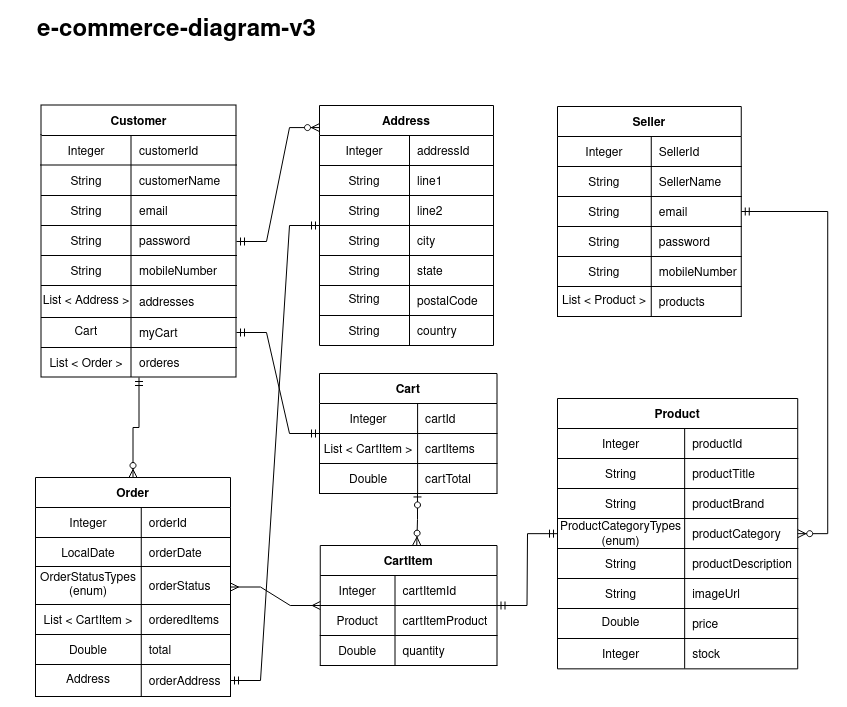
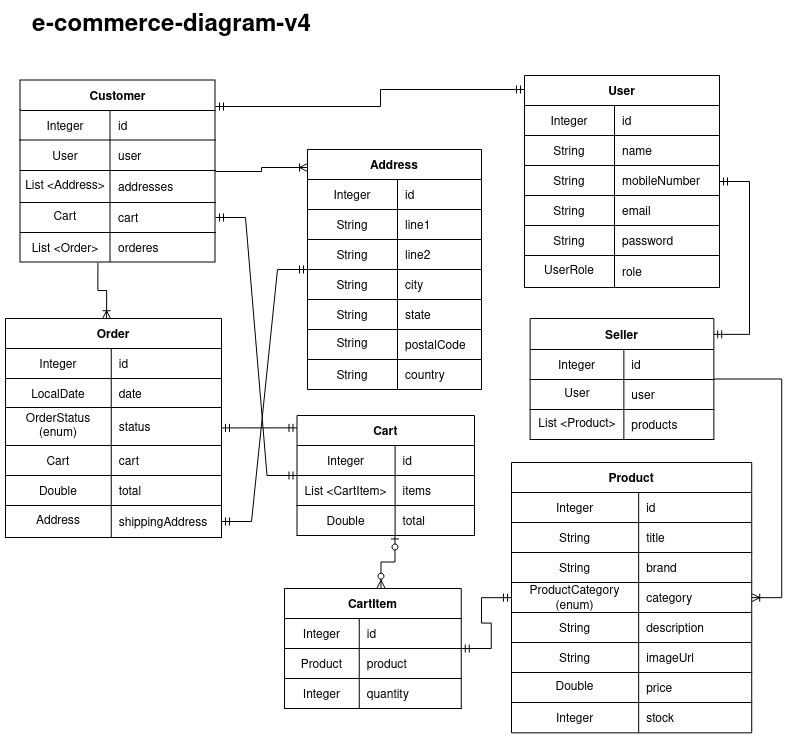
update database modeling and minor fixes

Changed region(s): [[0.0, 0.0934, 0.995, 0.9958], [0.0302, 0.0, 0.392, 0.0622], [0.6332, 0.0934, 0.6633, 0.1245]]

diff --git a/src/main/java/com/nadimnesar/ecommerce/auth/service/AuthenticationService.java b/src/main/java/com/nadimnesar/ecommerce/auth/service/AuthenticationService.java
@@ -2,7 +2,7 @@ package com.nadimnesar.ecommerce.auth.service;
 
 import com.nadimnesar.ecommerce.auth.dto.AuthResponseDto;
 import com.nadimnesar.ecommerce.auth.dto.UserDto;
-import com.nadimnesar.ecommerce.auth.enums.UserRoleTypes;
+import com.nadimnesar.ecommerce.auth.enums.UserRole;
 import com.nadimnesar.ecommerce.auth.model.User;
 import com.nadimnesar.ecommerce.auth.repository.UserRepository;
 import org.springframework.http.HttpStatus;
@@ -19,6 +19,7 @@ public class AuthenticationService {
     private final PasswordEncoder passwordEncoder;
     private final UserRepository userRepository;
     private final JwtService jwtService;
+
     public AuthenticationService(AuthenticationManager authenticationManager, PasswordEncoder passwordEncoder,
                                  UserRepository userRepository, JwtService jwtService) {
         this.authenticationManager = authenticationManager;
@@ -28,12 +29,13 @@ public class AuthenticationService {
     }
 
     public boolean invalidUserDto(UserDto userDto) {
-        return (userDto.getPassword() == null) || (userDto.getEmail() == null);
+        return (userDto.getPassword() == null) || (userDto.getEmail() == null) ||
+                (userDto.getName() == null) || (userDto.getMobileNumber() == null);
     }
 
-    public ResponseEntity<?> register(UserDto userDto, UserRoleTypes role) {
+    public ResponseEntity<?> register(UserDto userDto, UserRole role) {
         if (invalidUserDto(userDto)) return new ResponseEntity<>(
-                "Please provide both username and password.", HttpStatus.BAD_REQUEST);
+                "Please provide email, password, name, mobileNumber.", HttpStatus.BAD_REQUEST);
 
         User user = new User();
         user.setName(userDto.getName());
@@ -59,7 +61,7 @@ public class AuthenticationService {
 
     public ResponseEntity<?> login(UserDto userDto) {
         if (invalidUserDto(userDto)) return new ResponseEntity<>(
-                "Please provide both username and password.", HttpStatus.BAD_REQUEST);
+                "Please provide both email and password.", HttpStatus.BAD_REQUEST);
 
         User user = userRepository.findByEmail(userDto.getEmail());
         if (user == null) return new ResponseEntity<>("User not found.", HttpStatus.UNAUTHORIZED);

diff --git a/src/main/java/com/nadimnesar/ecommerce/auth/model/User.java b/src/main/java/com/nadimnesar/ecommerce/auth/model/User.java
@@ -1,6 +1,6 @@
 package com.nadimnesar.ecommerce.auth.model;
 
-import com.nadimnesar.ecommerce.auth.enums.UserRoleTypes;
+import com.nadimnesar.ecommerce.auth.enums.UserRole;
 import jakarta.persistence.*;
 import lombok.AllArgsConstructor;
 import lombok.Getter;
@@ -13,8 +13,8 @@ import org.springframework.security.core.userdetails.UserDetails;
 import java.util.Collection;
 import java.util.List;
 
-@Getter
 @Setter
+@Getter
 @AllArgsConstructor
 @NoArgsConstructor
 @Entity
@@ -24,6 +24,12 @@ public class User implements UserDetails {
     @GeneratedValue(strategy = GenerationType.IDENTITY)
     private Integer id;
 
+    @Column(nullable = false)
+    private String name;
+
+    @Column(nullable = false)
+    private String mobileNumber;
+
     @Column(unique = true, nullable = false)
     private String email;
 
@@ -32,14 +38,16 @@ public class User implements UserDetails {
 
     @Enumerated(EnumType.STRING)
     @Column(nullable = false)
-    private UserRoleTypes role;
-
-    private String name;
-    private String mobileNumber;
+    private UserRole role;
 
     @Override
     public Collection<? extends GrantedAuthority> getAuthorities() {
         return List.of(new SimpleGrantedAuthority(role.name()));
+    }
+
+    @Override
+    public String getPassword() {
+        return password;
     }
 
     @Override
@@ -49,21 +57,21 @@ public class User implements UserDetails {
 
     @Override
     public boolean isAccountNonExpired() {
-        return true;
+        return UserDetails.super.isAccountNonExpired();
     }
 
     @Override
     public boolean isAccountNonLocked() {
-        return true;
+        return UserDetails.super.isAccountNonLocked();
     }
 
     @Override
     public boolean isCredentialsNonExpired() {
-        return true;
+        return UserDetails.super.isCredentialsNonExpired();
     }
 
     @Override
     public boolean isEnabled() {
-        return true;
+        return UserDetails.super.isEnabled();
     }
 }

diff --git a/src/main/java/com/nadimnesar/ecommerce/service/ProductService.java b/src/main/java/com/nadimnesar/ecommerce/service/ProductService.java
@@ -1,6 +1,6 @@
 package com.nadimnesar.ecommerce.service;
 
-import com.nadimnesar.ecommerce.enums.ProductCategoryTypes;
+import com.nadimnesar.ecommerce.enums.ProductCategory;
 import com.nadimnesar.ecommerce.model.Product;
 import com.nadimnesar.ecommerce.repository.ProductRepository;
 import org.springframework.data.domain.PageRequest;
@@ -36,19 +36,19 @@ public class ProductService {
     }
 
     public Object getAllByCategoryName(String categoryName, Integer pageNo, Integer limit) {
-        ProductCategoryTypes type = ProductCategoryTypes.getCorrectType(categoryName);
+        ProductCategory type = ProductCategory.getCorrectType(categoryName);
         if (type == null) {
             HashMap<String, String> error = new HashMap<>();
             error.put("message", "Invalid product category");
-            error.put("validCategories", String.join(", ", ProductCategoryTypes.getValidCategories()));
+            error.put("validCategories", String.join(", ", ProductCategory.getValidCategories()));
             return new ResponseEntity<>(error, HttpStatus.NOT_FOUND);
         }
 
         if (pageNo != null && limit != null) {
             Pageable pageable = PageRequest.of(pageNo, limit);
-            return productRepository.findByProductCategory(type, pageable);
+            return productRepository.findByCategory(type, pageable);
         } else {
-            return productRepository.findByProductCategory(type);
+            return productRepository.findByCategory(type);
         }
     }
 }

diff --git a/src/main/java/com/nadimnesar/ecommerce/model/Product.java b/src/main/java/com/nadimnesar/ecommerce/model/Product.java
@@ -1,6 +1,6 @@
 package com.nadimnesar.ecommerce.model;
 
-import com.nadimnesar.ecommerce.enums.ProductCategoryTypes;
+import com.nadimnesar.ecommerce.enums.ProductCategory;
 import jakarta.persistence.*;
 import lombok.AllArgsConstructor;
 import lombok.Getter;
@@ -15,22 +15,27 @@ import lombok.Setter;
 public class Product {
     @Id
     @GeneratedValue(strategy = GenerationType.IDENTITY)
-    private Integer productId;
+    private Integer id;
 
     @Column(nullable = false)
-    private String productTitle;
+    private String title;
+
+    @Column(nullable = false)
+    private String brand;
 
     @Column(nullable = false)
     @Enumerated(EnumType.STRING)
-    private ProductCategoryTypes productCategory;
+    private ProductCategory category;
+
+    @Column(nullable = false)
+    private String description;
+
+    @Column(nullable = false)
+    private String imageUrl;
 
     @Column(nullable = false)
     private Double price;
 
     @Column(nullable = false)
     private Integer stock;
-
-    private String productBrand;
-    private String productDescription;
-    private String imageUrl;
 }

diff --git a/src/main/java/com/nadimnesar/ecommerce/auth/controller/AuthController.java b/src/main/java/com/nadimnesar/ecommerce/auth/controller/AuthController.java
@@ -1,7 +1,7 @@
 package com.nadimnesar.ecommerce.auth.controller;
 
 import com.nadimnesar.ecommerce.auth.dto.UserDto;
-import com.nadimnesar.ecommerce.auth.enums.UserRoleTypes;
+import com.nadimnesar.ecommerce.auth.enums.UserRole;
 import com.nadimnesar.ecommerce.auth.service.AuthenticationService;
 import org.springframework.http.ResponseEntity;
 import org.springframework.web.bind.annotation.*;
@@ -18,12 +18,12 @@ public class AuthController {
 
     @PostMapping("/register")
     public ResponseEntity<?> postRegistration(@RequestBody UserDto userDto) {
-        return authenticationService.register(userDto, UserRoleTypes.CUSTOMER);
+        return authenticationService.register(userDto, UserRole.CUSTOMER);
     }
 
     @PostMapping("/seller/register")
     public ResponseEntity<?> postSellerRegistration(@RequestBody UserDto userDto) {
-        return authenticationService.register(userDto, UserRoleTypes.SELLER);
+        return authenticationService.register(userDto, UserRole.SELLER);
     }
 
     @GetMapping("/login")

diff --git a/src/main/java/com/nadimnesar/ecommerce/model/Order.java b/src/main/java/com/nadimnesar/ecommerce/model/Order.java
@@ -1,6 +1,6 @@
 package com.nadimnesar.ecommerce.model;
 
-import com.nadimnesar.ecommerce.enums.OrderStatusTypes;
+import com.nadimnesar.ecommerce.enums.OrderStatus;
 import jakarta.persistence.*;
 import lombok.AllArgsConstructor;
 import lombok.Getter;
@@ -8,7 +8,6 @@ import lombok.NoArgsConstructor;
 import lombok.Setter;
 
 import java.time.LocalDate;
-import java.util.List;
 
 @Getter
 @Setter
@@ -21,15 +20,15 @@ public class Order {
     @GeneratedValue(strategy = GenerationType.IDENTITY)
     private Integer id;
 
-    private LocalDate orderDate;
+    private LocalDate date;
 
     @Enumerated(EnumType.STRING)
-    private OrderStatusTypes orderStatus;
+    private OrderStatus status;
 
-    @OneToMany(cascade = CascadeType.ALL, fetch = FetchType.LAZY)
-    private List<CartItem> cartItems;
+    @OneToOne
+    private Cart cart;
 
-    private Double totalPrice;
+    private Double total;
 
     @OneToOne
     private Address shippingAddress;

diff --git a/src/main/java/com/nadimnesar/ecommerce/repository/ProductRepository.java b/src/main/java/com/nadimnesar/ecommerce/repository/ProductRepository.java
@@ -1,6 +1,6 @@
 package com.nadimnesar.ecommerce.repository;
 
-import com.nadimnesar.ecommerce.enums.ProductCategoryTypes;
+import com.nadimnesar.ecommerce.enums.ProductCategory;
 import com.nadimnesar.ecommerce.model.Product;
 import org.springframework.data.domain.Page;
 import org.springframework.data.domain.Pageable;
@@ -11,6 +11,6 @@ import java.util.List;
 
 @Repository
 public interface ProductRepository extends JpaRepository<Product, Integer> {
-    List<Product> findByProductCategory(ProductCategoryTypes productCategory);
-    Page<Product> findByProductCategory(ProductCategoryTypes productCategory, Pageable pageable);
+    List<Product> findByCategory(ProductCategory productCategory);
+    Page<Product> findByCategory(ProductCategory productCategory, Pageable pageable);
 }

diff --git a/src/main/java/com/nadimnesar/ecommerce/model/Customer.java b/src/main/java/com/nadimnesar/ecommerce/model/Customer.java
@@ -19,15 +19,15 @@ public class Customer {
     @GeneratedValue(strategy = GenerationType.IDENTITY)
     private Integer id;
 
-    @OneToOne(cascade = CascadeType.ALL, fetch = FetchType.LAZY)
-    private User customerUser;
+    @OneToOne
+    private User user;
 
-    @OneToMany(cascade = CascadeType.ALL, fetch = FetchType.LAZY)
+    @OneToMany
     private List<Address> addresses;
 
-    @OneToOne(cascade = CascadeType.ALL, fetch = FetchType.LAZY)
-    private Cart myCart;
+    @OneToOne
+    private Cart cart;
 
-    @OneToMany(cascade = CascadeType.ALL, fetch = FetchType.LAZY)
+    @OneToMany
     List<Order> orders;
 }

diff --git a/src/main/java/com/nadimnesar/ecommerce/enums/ProductCategory.java b/src/main/java/com/nadimnesar/ecommerce/enums/ProductCategory.java
@@ -4,11 +4,11 @@ import java.util.Arrays;
 import java.util.List;
 import java.util.stream.Collectors;
 
-public enum ProductCategoryTypes {
+public enum ProductCategory {
     Fashion, Lifestyle, Health, Electronics, Groceries, Sports;
 
-    public static ProductCategoryTypes getCorrectType(String category) {
-        for (ProductCategoryTypes type : values()) {
+    public static ProductCategory getCorrectType(String category) {
+        for (ProductCategory type : values()) {
             if (type.name().equalsIgnoreCase(category)) {
                 return type;
             }

diff --git a/src/main/java/com/nadimnesar/ecommerce/dto/ProductDto.java b/src/main/java/com/nadimnesar/ecommerce/dto/ProductDto.java
@@ -1,6 +1,6 @@
 package com.nadimnesar.ecommerce.dto;
 
-import com.nadimnesar.ecommerce.enums.ProductCategoryTypes;
+import com.nadimnesar.ecommerce.enums.ProductCategory;
 import lombok.AllArgsConstructor;
 import lombok.Getter;
 import lombok.NoArgsConstructor;
@@ -12,7 +12,7 @@ import lombok.Setter;
 @AllArgsConstructor
 public class ProductDto {
     private String productTitle;
-    private ProductCategoryTypes productCategory;
+    private ProductCategory productCategory;
     private Double price;
     private Integer stock;
 

diff --git a/src/main/java/com/nadimnesar/ecommerce/auth/dto/AuthResponseDto.java b/src/main/java/com/nadimnesar/ecommerce/auth/dto/AuthResponseDto.java
@@ -1,6 +1,6 @@
 package com.nadimnesar.ecommerce.auth.dto;
 
-import com.nadimnesar.ecommerce.auth.enums.UserRoleTypes;
+import com.nadimnesar.ecommerce.auth.enums.UserRole;
 import lombok.AllArgsConstructor;
 import lombok.Getter;
 import lombok.NoArgsConstructor;
@@ -12,5 +12,5 @@ import lombok.Setter;
 @NoArgsConstructor
 public class AuthResponseDto {
     private String jwt;
-    private UserRoleTypes userRoleType;
+    private UserRole userRoleType;
 }

diff --git a/src/main/java/com/nadimnesar/ecommerce/model/Seller.java b/src/main/java/com/nadimnesar/ecommerce/model/Seller.java
@@ -19,9 +19,9 @@ public class Seller {
     @GeneratedValue(strategy = GenerationType.IDENTITY)
     private Integer id;
 
-    @OneToOne(cascade = CascadeType.ALL, fetch = FetchType.LAZY)
-    private User sellerUser;
+    @OneToOne
+    private User user;
 
-    @OneToMany(cascade = CascadeType.ALL, fetch = FetchType.LAZY)
+    @OneToMany
     private List<Product> products;
 }
